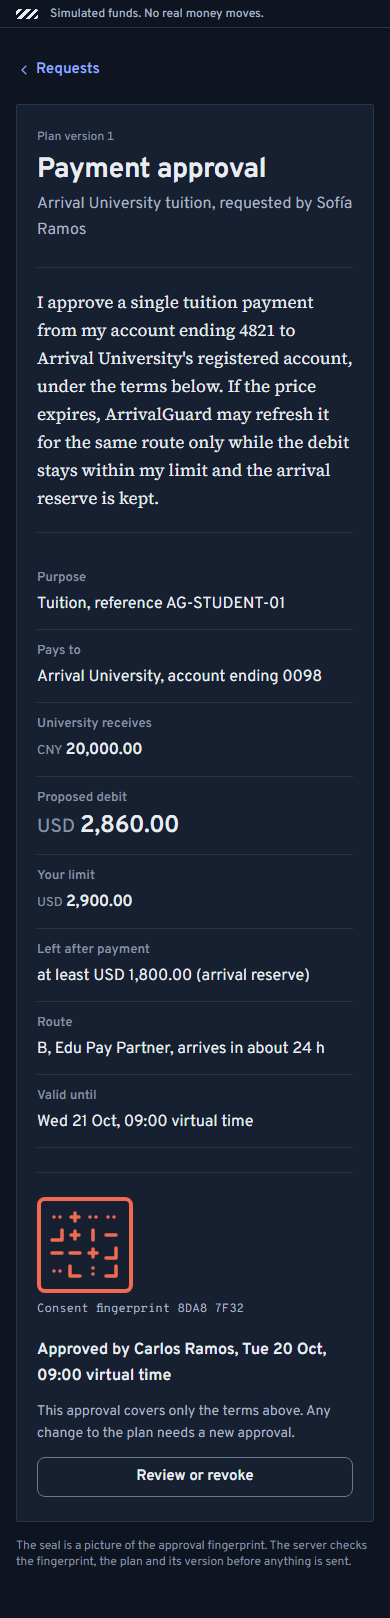
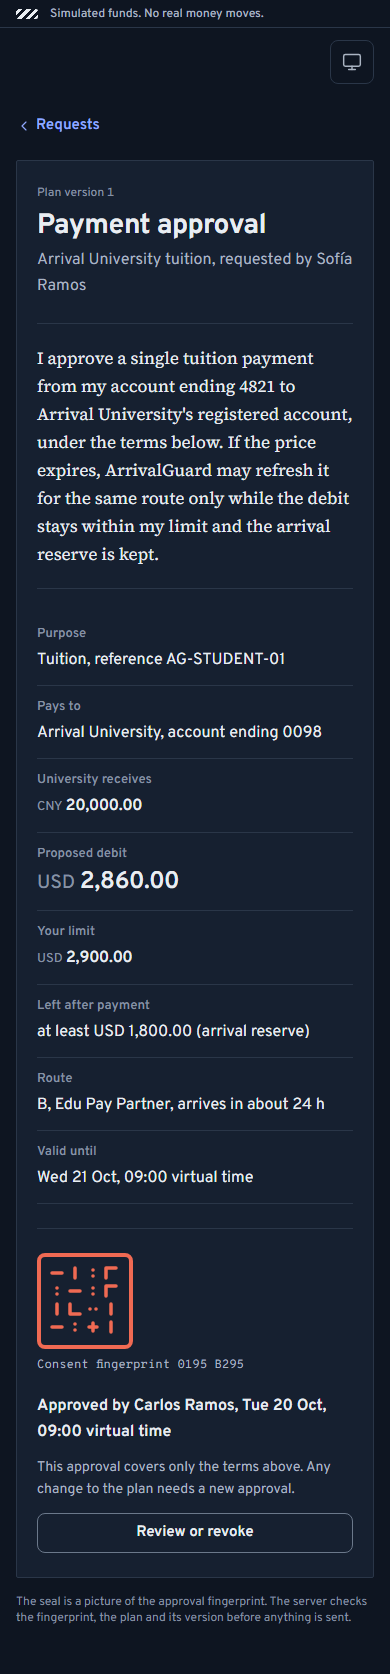
feat: botón de tema (sistema, claro y oscuro) en el inicio, las pantallas fijas del pagador y /system; la consola sigue siempre oscura; ui:check lo prueba

diff --git a/src/app/page.tsx b/src/app/page.tsx
@@ -3,6 +3,7 @@ import Link from "next/link";
 import { ConsentSeal, Logo, SimulationBand, StopOctagon } from "@/ui/brand";
 import { MoneyFigure, StatusPill } from "@/ui/finance";
 import { AccessForm } from "@/ui/landing/AccessForm";
+import { ThemeToggle } from "@/ui/layout/ThemeToggle";
 import { P1_AVAILABLE } from "@/ui/workspace/copy";
 
 // Landing (UI_UX 11.1, DESIGN_PLAN 5.1). El tablero de llegadas es estático en esta versión: muestra un pago de
@@ -35,7 +36,7 @@ export default function HomePage() {
   return (
     <>
       <header className="sticky top-0 z-20">
-        <nav aria-label="Main" className="flex h-[72px] items-center gap-6 border-b border-line bg-surface px-4 md:px-8">
+        <nav aria-label="Main" className="flex h-[72px] items-center gap-3 border-b border-line bg-surface px-4 md:gap-6 md:px-8">
           <Link href="/" aria-label="ArrivalGuard home">
             <Logo size="md" />
           </Link>
@@ -48,9 +49,13 @@ export default function HomePage() {
               </li>
             ))}
           </ul>
-          <a href="#for-judges" className="ml-auto inline-flex h-10 items-center rounded-control border border-line-strong px-4 text-[15px] font-semibold text-ink hover:border-ink lg:ml-0">
+          <a href="#for-judges" className="ml-auto hidden h-10 items-center whitespace-nowrap rounded-control border border-line-strong px-4 text-[15px] font-semibold text-ink hover:border-ink sm:inline-flex lg:ml-0">
             Open the demo
           </a>
+          {/* En el teléfono el botón del inicio queda solo en el hero; el de tema va al borde derecho. */}
+          <div className="ml-auto sm:ml-0">
+            <ThemeToggle />
+          </div>
         </nav>
         <SimulationBand />
       </header>

diff --git a/scripts/ui-check.ts b/scripts/ui-check.ts
@@ -72,6 +72,20 @@ runMain(async () => {
     await capture(browser, baseUrl, context, "landing", "/", shots, axe);
     await capture(browser, baseUrl, context, "system", "/system", shots, axe);
 
+    // Botón de tema en el inicio: sistema → claro → oscuro → sistema, aplicado en <html data-theme> y recordado.
+    await step("botón de tema en el inicio: claro, oscuro y de vuelta a sistema", async () => {
+      const toggle = page.getByRole("button", { name: /^Theme:/ });
+      const theme = () => page.evaluate(() => document.documentElement.dataset.theme ?? "system");
+      await toggle.click();
+      if ((await theme()) !== "light") throw new Error(`esperaba light, hay ${await theme()}`);
+      await toggle.click();
+      if ((await theme()) !== "dark") throw new Error(`esperaba dark, hay ${await theme()}`);
+      await page.reload();
+      if ((await theme()) !== "dark") throw new Error("el tema elegido no se recordó al recargar");
+      await page.getByRole("button", { name: /^Theme: Dark/ }).click();
+      if ((await theme()) !== "system") throw new Error(`esperaba system, hay ${await theme()}`);
+    });
+
     await step("acceso con el código de evaluación (escenario base)", async () => {
       await page.getByLabel("Evaluation code").fill(code);
       await page.getByRole("radio", { name: /Base scenario/ }).check();

diff --git a/src/app/system/page.tsx b/src/app/system/page.tsx
@@ -4,6 +4,7 @@ import { ConsentSeal } from "@/ui/brand/ConsentSeal";
 import { Logo } from "@/ui/brand/Logo";
 import { MiniSeal } from "@/ui/brand/MiniSeal";
 import { SimulationBand } from "@/ui/brand/SimulationBand";
+import { ThemeToggle } from "@/ui/layout/ThemeToggle";
 import { StopOctagon } from "@/ui/brand/StopOctagon";
 import { ThresholdMark } from "@/ui/brand/ThresholdMark";
 import { ApprovalRequestCard } from "@/ui/finance/ApprovalRequestCard";
@@ -81,7 +82,10 @@ export default function SystemPage() {
       <SimulationBand />
       <main className="mx-auto max-w-[1344px] px-4 pb-24 pt-12 sm:px-8">
         <header className="flex flex-col gap-6 pb-12">
-          <Logo size="lg" />
+          <div className="flex items-center justify-between gap-4">
+            <Logo size="lg" />
+            <ThemeToggle />
+          </div>
           <h1 className="max-w-3xl text-[40px] font-bold leading-[44px] tracking-[-0.02em] text-ink md:text-[56px] md:leading-[60px]">Tuition that arrives. Savings that stay.</h1>
           <div className="max-w-2xl">
             <p className="text-[20px] font-[650] leading-[26px] text-ink">Brand and design system</p>

diff --git a/src/app/w/[id]/payer/changes/[changeId]/page.tsx b/src/app/w/[id]/payer/changes/[changeId]/page.tsx
@@ -1,5 +1,6 @@
 import type { Metadata } from "next";
 import { SimulationBand } from "@/ui/brand";
+import { ThemeToggle } from "@/ui/layout/ThemeToggle";
 import { ChangeConfirmation } from "@/ui/workspace/ChangeConfirmation";
 
 export const metadata: Metadata = { title: "Confirm change", robots: { index: false, follow: false } };
@@ -10,6 +11,9 @@ export default async function ChangePage({ params }: { params: Promise<{ id: str
     <div className="min-h-dvh">
       <div className="sticky top-0 z-20">
         <SimulationBand />
+      </div>
+      <div className="mx-auto flex max-w-[1344px] justify-end px-4 pt-3 md:px-8">
+        <ThemeToggle />
       </div>
       <main id="main">
         <ChangeConfirmation workspaceId={id} changeId={changeId} />

diff --git a/src/app/w/[id]/approve/[planId]/page.tsx b/src/app/w/[id]/approve/[planId]/page.tsx
@@ -1,5 +1,6 @@
 import type { Metadata } from "next";
 import { SimulationBand } from "@/ui/brand";
+import { ThemeToggle } from "@/ui/layout/ThemeToggle";
 import { ApprovalDocument } from "@/ui/workspace/ApprovalDocument";
 
 export const metadata: Metadata = { title: "Payment approval", robots: { index: false, follow: false } };
@@ -10,6 +11,9 @@ export default async function ApprovalPage({ params }: { params: Promise<{ id: s
     <div className="min-h-dvh">
       <div className="sticky top-0 z-20">
         <SimulationBand />
+      </div>
+      <div className="mx-auto flex max-w-[1344px] justify-end px-4 pt-3 md:px-8">
+        <ThemeToggle />
       </div>
       <main id="main">
         <ApprovalDocument workspaceId={id} planId={planId} />

diff --git a/src/ui/layout/TopBar.tsx b/src/ui/layout/TopBar.tsx
@@ -52,7 +52,8 @@ export function TopBar({
         ) : null}
         <RoleSwitcher workspaceId={workspaceId} current={role} options={roles} />
         {actions}
-        <ThemeToggle />
+        {/* La consola del evaluador es siempre oscura (UI_UX 11.5): ahí no se ofrece cambiar el tema. */}
+        {role === "evaluator" ? null : <ThemeToggle />}
       </div>
     </header>
   );

diff --git a/docs/DEMO_GUIDE.md b/docs/DEMO_GUIDE.md
@@ -14,6 +14,8 @@ ArrivalGuard pays a student's international tuition inside the limits the family
    - **Evaluator**: the console (virtual time, faults, AI usage and the event log).
 4. Each workspace has its own virtual clock (it starts at Tue 20 Oct, 09:00 virtual time). Sessions last 14 days. To start over or change scenario, use **Start new workspace** in the console. The previous workspace is kept, but this browser's sessions move to the new one; to keep two workspaces open at once, use a private window for the second.
 
+The theme button (top right on every page except the evaluator console, which is always dark) cycles through system, light and dark, and the browser remembers the choice.
+
 The chat uses Claude. If it is slow or unavailable, **Use structured controls** does the same steps with buttons, and the console's **Make the assistant unavailable** fault shows that switch on purpose.
 
 ## 2. Which scenario for what
